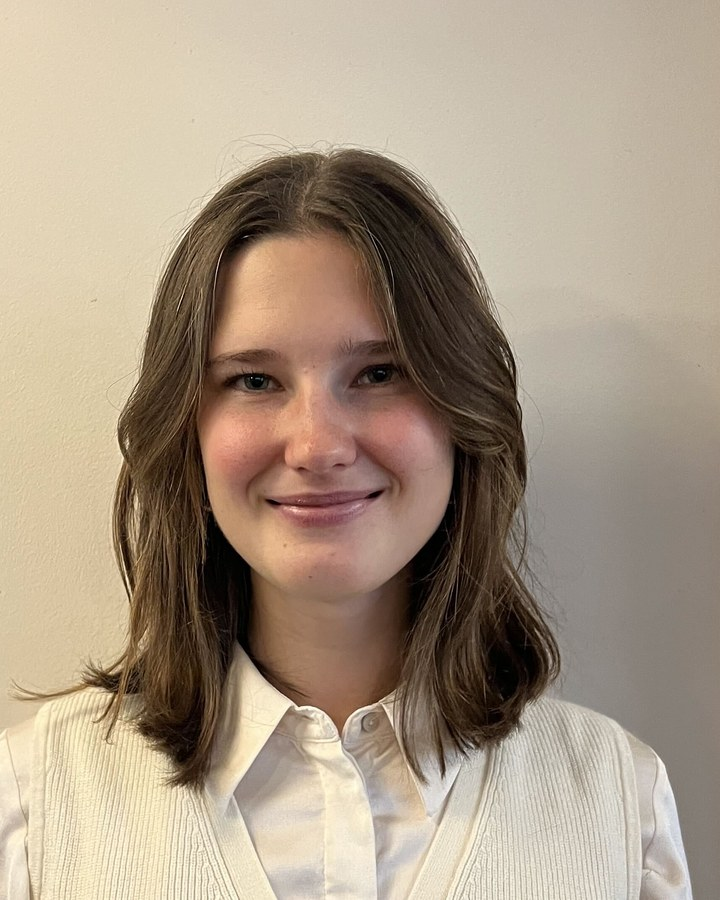
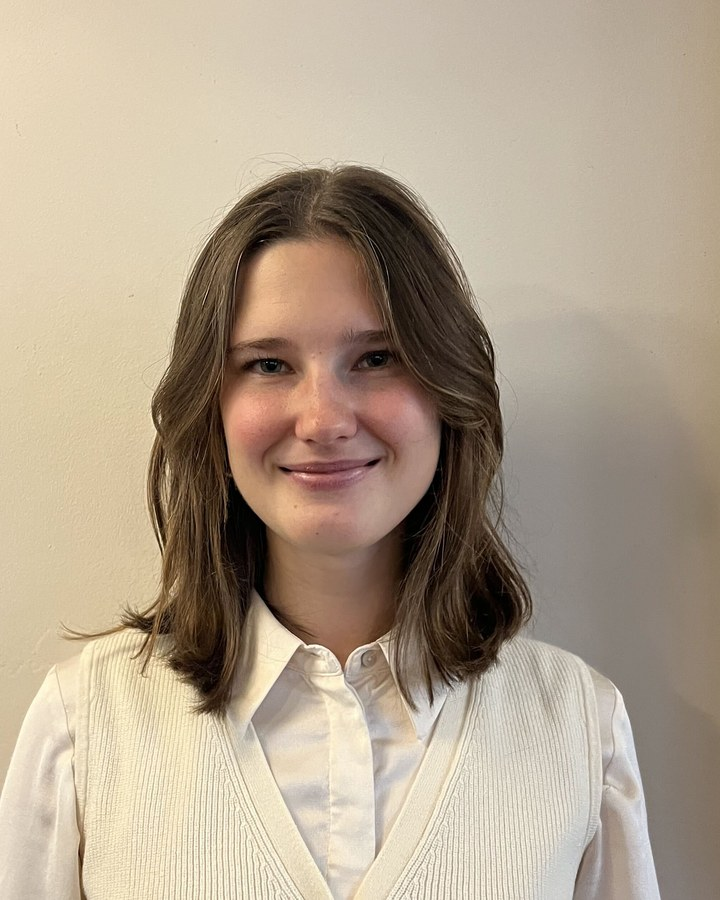
Valeria photo: wider crop to match the rest of the team

diff --git a/alts-about.html b/alts-about.html
@@ -133,7 +133,7 @@
       <div class="tm reveal"><img src="https://cdn.prod.website-files.com/6899b009eafbcc44466f60d3/68a4a668392f6c4499a9a728_Venera.jpg" alt="Venera Bednarskaia"><b>Venera Bednarskaia</b><span>Hosted Buyer Manager</span></div>
       <div class="tm reveal"><img src="https://cdn.prod.website-files.com/6899b009eafbcc44466f60d3/68a4aa98cfedc77b9e520423_Hotpot.png" alt="Aryuna Tugutova"><b>Aryuna Tugutova</b><span>Buyer and Event Coordinator</span></div>
       <div class="tm reveal"><img src="assets/team-yuriy.jpg" alt="Yuriy Vidakas"><b>Yuriy Vidakas</b><span>Brand Communications Manager</span></div>
-      <div class="tm reveal"><img src="assets/team-valeria.jpg" alt="Valeria Smirnova"><b>Valeria Smirnova</b><span>Project Coordinator</span></div>
+      <div class="tm reveal"><img src="assets/team-valeria.jpg?v=2" alt="Valeria Smirnova"><b>Valeria Smirnova</b><span>Project Coordinator</span></div>
     </div>
     <div class="center reveal" style="margin-top:56px"><a class="btn btn-grad" href="alts-contact.html">Get in touch with us</a></div>
   </div>
